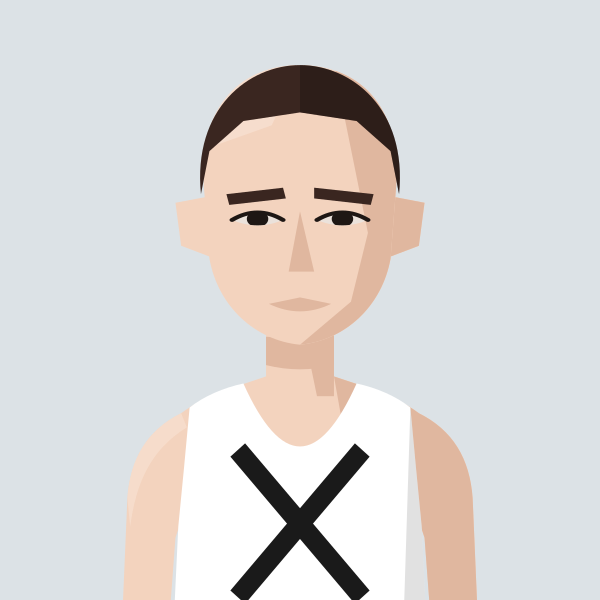
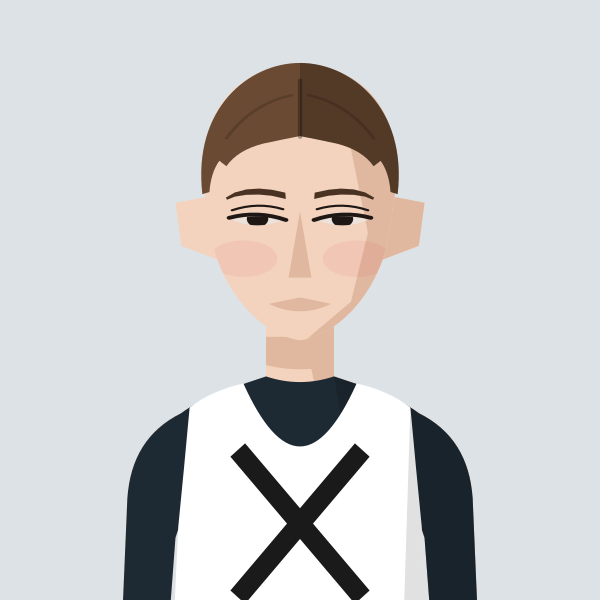
Redraw Indy Barnes: low centre-parted sweep, short forehead, young face, hooded eyes, soft brows, dark sleeves
Claude-Session: https://claude.ai/code/session_01MgmDWhFqnSSnP4iBLKXUZC

diff --git a/files/index.html b/files/index.html
@@ -876,7 +876,7 @@ const portraitFile=(name,club)=>{const k=normalizeNameForCompare(name||'').repla
 const portraitClubOf=(name,clubs)=>{for(const c of clubs||[]){if(c&&portraitFile(name,c))return c;}return null;}; /* first of these clubs we have a portrait for */
 // Athlete header figure: superstar portrait if we have one, else a grey runner in the club vest, else the plain vest icon
 // Changes whenever any portrait changes (set by tools/build_og.py), so browsers fetch fresh images instead of old cached ones
-const PORTRAIT_V='09515851';const PORTRAIT_WOMEN='abbey-brooke,abbie-bulbulian,adele-prince,aimee-hargreaves,aisling-ahern,alex-brown,alex-gandee,alex-marginean,alex-miller,alexa-parker,alexandra-barbour,alice-braham,alice-bridger-morales,alice-crane,alice-martin,alice-reed,alice-smith,alison-purnell,alison-thomson,amelia-pettitt,amy-clements,andrea-barber,anika-schwarze-chintapatla,anna-garnier,anna-garnier-hw,anna-sharp,annabel-hobday,annabelle-hadlow,anne-hegvold,annmarie-seymour,ava-mcandie,becky-briggs,bethan-goddard,bethanie-murray,bethany-brown,betsy-griffiths,billie-mcclosky,camilla-barden,caoimhe-nic-fhogartaigh,carolyne-baxter,catherine-bryson,catherine-eastham,catherine-kandie,cathy-ansell,charlotte-griffiths,chloe-beckett,chloe-tighe,chrissie-wellington,claire-grima,clara-pettit,clare-elms,clare-pauzers,dillan-quinn,dorchie-cockerell,eilidh-hide,elinor-skinner,eliza-grant,elizabeth-apsley,elizabeth-stavreski,ella-fennelly,ella-king-powrie,ella-may-hards,ella-newton,ellen-weir,ellie-brown,ellie-freeden,eloise-bull,emilie-arnoux,emily-barrett,emily-bradley,emily-lowery,emily-robbins,emma-gordon,emma-howsham,emma-lord,emma-rowland,estle-viljoen,evie-warren,felicity-cole,felicity-harrison,felicity-hayward,fi-maddocks,fiona-de-mauny,florence-wiggins,gabby-collison,gabriel-reynolds,gemma-newport,genevieve-blanch,georgia-curry,georgie-bruinvels,georgie-fenn,georgie-furze,georgie-grgec,gina-galbraith,grace-leyland,grace-richardson,hannah-edwards,hannah-english,heather-statham,heather-statham-cc,helena-corbin,helena-keenan,holly-nixon,holly-pan,imogen-mackie,imogen-wolsey,iona-cousland,isabel-bradley,isabel-brinsden,isabelle-pickett,isobel-hodder,jennifer-nandi,jennifer-smith,jess-reed,jess-saunders,jess-winfield,jessica-davies,jessica-lowe,jodie-favell,jon-hobbs,josephine-rhodes,julia-bleasdale,julia-wedmore,juliet-hodder,jurgita-levertaviciute,justine-lynch,karen-fenner,karen-xiang,karina-box,kate-axford,kate-williams,kathy-sharpe,katie-ellen-french,katie-good,katie-snowden,katy-hedgethorne,kitty-shepherd-cross,kristina-popadich,lara-bromilow,lara-mangan,laura-goodson,laura-miles,lauren-major,lea-adamson,lily-newton,lisa-bailey,lisa-thomas,lisa-thomas-hw,lizzie-goldie-scot,louise-cooper,lucy-jones,lucy-macalister,lucy-peters,lydia-blackmore,lydia-gallyer-barnett,maddie-mastrolonardo,maddy-whitman,maeve-kenny,margaret-coogan,martina-conner,mary-james,mary-setyabule,matilde-lomba,megan-gildea,mel-wilkins,mhairi-hall,mimi-corden-lloyd,molly-oconnor,molly-smith,monika-gajek,naomi-lenane,natalie-beadle,natalie-seymour,natasha-lodge,niamh-thompson,nicky-hayes,nicola-cartlidge,nicola-douglas,nikki-sturzaker,olivia-papaioannou,olivia-stillman,orna-mcginley,pamela-mchutchon,patricia-walker,patrizia-gnoato,penny-oliver,rachel-brown,rebecca-barrow,rebekah-edgar,ruby-carter,ruby-whyte-wilding,ruby-woolfe,sally-urquhart,sam-whiting,samantha-munday,sarah-astin,sarah-dewhirst,sarah-grover,sarah-hanley,sarah-holt,sarah-murphy,sarah-palmer,sarah-palmer-ran,sarah-riceman,sarah-young,saron-haileselase,serena-carter,sophie-cowper,sophie-harris,sophie-hicks,sophie-tooley,stacey-ward,steph-hewitt,steph-mccall,steph-mccall-cc,steph-mccall-slh,steph-mitchell,suzanne-swaine,suze-spalding,suzie-harvey,suzy-whatmough,teresa-murphy,tilly-heaton,tilly-heaton-bel,tish-jones,vic-cartwright,vicky-clarke,victoria-barthelmess,victoria-buck,vikki-filsell,zoe-doyle,zoe-macdonald,zuzana-nemeckova';const PORTRAIT_MEN='aaron-wilson,abdulla-elsadig,adam-leane,adrian-major,adrien-royer,alan-black,alan-mead,alex-brecker,alex-bruce-littlewood,alex-gutteridge,alex-harris,alex-howard,alex-janiaud,alex-lee,alex-lennon,alex-mills,alex-milne,alex-morales,alex-robinson,alex-yee,alexander-marks,amittai-ben-israel,andrew-cumine,andrew-green,andrew-penney,andrew-perfect,andrew-simms,andrew-warburton,andrius-jaksevicius,andy-coley-maud,andy-coley-maud-cc,andy-fyfe,andy-north,andy-paton,andy-weir,angus-butler,angus-lamb,anisse-ismaili,arlo-ludewick,arne-dumez,arthur-peel,ashley-goncalves,barnaby-day,barry-collins,barry-sawyer,ben-clarke,ben-coughlan,ben-harding,ben-hurley,ben-ireland,ben-millar,ben-paviour,ben-pearce,ben-racle,ben-revill,ben-reynolds,ben-scott,ben-toomer,benedict-whitby,benjamin-hilson,bernie-ford,bill-kerr,bill-weller,bill-weller-wal,bob-harrison,bob-holt,bob-lunnon,bob-rayman,bob-smith,bradley-courtney-pinn,brandon-dewar,brian-gorman,brian-wilder,caleb-hathaway,callum-stewart,cameron-dockerill,cameron-reilly,carl-delaney,charles-herrington,charlie-dabbs,charlie-dickinson,charlie-eastaugh,charlie-manning,charlie-pickett,charlie-rogers,charlie-sandison,charlie-walker,charlie-wyllie,che-compton,chris-busaileh,chris-busaileh-hhh,chris-greenwood,chris-keavey,chris-moss,chris-steer,chris-threadgold,chris-warren,christian-lee,christopher-parker,clive-gilby,clive-shippen,colin-high,colin-pearson,conall-mcnally,conall-whelan,craig-ruddy,dame-dibaba,dan-cliffe,dan-pettitt,daniel-shaw,daniel-wolff,darren-mead,dave-beard,dave-beaver,dave-glassborow,dave-holt,dave-taylor,david-anderson,david-bowers,david-grima,david-north,david-ogden,david-symons,david-walsh,david-williams,deron-fagan,dick-piotrowski,dimos-evangelidis,dom-nolan,dominic-kiralyfi,don-anderson,don-faircloth,don-maclean,doug-maughan,duncan-rimmer,dylan-evans,dylan-mitchard,ed-brewer,ed-catmur,ed-gibson,ed-mallett,eddie-herridge,eddie-jodrell,eddie-rolls,edward-chuck,eoin-brady,eoin-molloy,ethan-mccolgan,falilou-kebe,findlay-dyer,finn-johnson,fintan-pearce,frank-tickner,frank-ward,fred-paget,fred-slemeck,freddie-hessian,garret-lee,gary-ribbons,gary-ribbons-ee,gary-staines,gary-staines-bel,gavin-eccles,geoff-biscoe,geoff-jerwood,geoff-north,george-cotton,george-gathercole,george-jackson,george-loxton,george-mallett,george-ogden,gerry-adams,gerry-north,glen-keegan,gordon-pearce,graham-macky,grenville-tuck,harrison-hayman,harry-guttridge,hector-revill,henry-hart,henry-silverstein,hugo-hewitt,huw-lobb,ian-acreman,ian-crowe-wright,ian-ellwood,ian-harkness,indy-barnes,isaac-lutaya,isaac-parker,jack-brotchie,jack-dickson,jack-dormer,jack-hampshire,jack-harrison,jack-hobden,jack-kavanagh,jack-millar,jack-ramm,jack-woods,jacob-brockmann,jake-simmonds,james-bartram,james-blackwood,james-bowler,james-estall,james-ewing,james-fox,james-hancock,james-harvey,james-hoad,james-kelly,james-mcmullan,james-murray,james-nutt,james-preston,james-roberts,james-stockings,james-ward,james-wootton,jamie-crowe,jamie-parkinson,jared-martin,jean-paul-wright,jeff-cunningham,jeremy-dempsey,jermaine-mays,jerry-watson,jim-allchin,jim-rimmer,joe-english,joe-hartley,john-baker,john-bicourt,john-bromley,john-davies,john-dear,john-foss,john-foxall,john-gilbert,john-gladwin,john-hutchins,john-kendall,john-kimaiyo,john-lee,john-lethbridge,john-mather,john-moore,john-roberts,john-sanderson,john-stow,john-sullivan,john-thresher,jon-pepper,jon-pepper-slh,jon-phillips,jon-solly,jonathan-cocker,jonathan-collier,jonathan-cornish,jonathan-ratcliffe,jonathan-tipper,jonny-neville,jonny-scott,jordan-weaver,josh-mitchell,josh-snow,josh-trigwell,jules-gevers,junior-galley,justin-chaston,justin-reid,kassa-tadesse,keith-newton,kevin-nash,kevin-quinn,kevin-sturman,kieran-barnes,kieran-white,knut-hegvold,knut-hegvold-bel,larry-ryan,lawrence-avery,lee-lintern,lewis-lloyd,liam-burthem,lionel-mann,lloyd-kempson,luke-caldwell,mack-downie,malachi-byansi,marcello-bizio,marcelo-fortes,marco-mazzotta,mark-anderson,mark-miles,mark-sinclair,mark-tennyson,mark-waller,martin-dent,martin-duff,martin-lake,martin-lewington,martin-shore,mathew-speed,matt-chaston,matt-jones,matt-wood,matthew-edgar,matthew-houchell,matthew-thomas,matthew-varley,max-bloor,max-heyden,max-milarvie,max-nicholls,michael-baker,michael-mccarthy,mick-woods,mike-beevor,mike-boyle,mike-cummings,mike-farmery,mike-fuller,mike-hayes,mike-kortenray,mike-nouch,mohammed-ismail,monty-hudson,morgan-roberts,nathan-visick,neil-chisholm,neil-phillips,neil-speaight,neil-wilson,nic-lukies,nick-acfield,nick-altmann,nick-bester,nick-bester-hhh,nick-buckle,nick-bundle,nick-goolab,nick-lightfoot,nick-morris,nick-torry,noah-fernandez,norman-stairs,oli-carrington,oliver-carrington,oliver-fox,oliver-reynolds,oliver-young,ollie-foote,ollie-garrod,olly-buck,owen-hind,paddy-roddy,pancho-panchev,paskar-owor,pat-newell,patrick-mcdougall,paul-calver,paul-cheetham,paul-freary,paul-magner,paul-pollock,paul-sanderson,paul-sanderson-wok,pete-carton,pete-gardner,peter-clarke,peter-giles,peter-giles-thh,peter-lighting,phil-carstairs,phil-sanders,phil-sesemann,phil-swinburn,phil-wicks,phil-woodford-smith,raj-paranandi,ralph-street,ranjit-bhatia,ray-foley,reece-edwards,rhys-boorman,rian-mccawley,richard-ashe,richard-giles,richard-henderson,richard-langley,richard-mcdowell,richard-ollington,richard-partridge,richard-sun,richard-ward,rob-armstrong,rob-kelly,rob-tuer,robert-elphick,robert-laing,robert-norville,robert-peacock,robert-sesemann,robin-boon,robin-hudson,roger-alsop,roger-alsop-bel,roger-hackney,ron-clark,ron-linstead,ronan-tanguy,rory-mcmahon,rory-orsborn,ross-braden,ross-christie,rowan-board,rowan-crichton,russell-dessaix-chin,ryan-hickey,ryan-mccallister,sam-bramwell,sam-charlton,sam-gebreselassie,sam-haughian,sam-peters,sam-sommerville,sam-tyas,samuel-dames,samuel-wilcock,sean-cordon,sebastian-anthony,simon-baines,simon-coombes,simon-coppard,simon-fairbrother,simon-holmes,simon-rayner,simon-rayner-hw,simon-wade,simon-wade-hhh,simon-waterhouse,simon-williams,simon-wurr,sonny-nicoll,spencer-barden,stephen-mcleod,stephen-sharp,steve-gardner,steve-jones,steve-smythe,steve-smythe-hhh,stuart-beaney,stuart-major,stuart-major-thh,stuart-mccallum,stuart-paton,terry-booth,thomas-dugre,thomas-gandee,thomas-gardner,thomas-renshaw,tim-alexander,tim-eglen,tim-lawrence,tim-watson,toby-cooke,toby-fletcher,tom-austin,tom-cheetham,tom-conlon,tom-davies,tom-gifford,tom-higgs,tom-jervis,tom-lole,tom-south,tom-thornley,tommy-taylor,tony-binda,tony-fairclough,tony-harran,trevor-hart,valdis-pauzers,valentin-rigori,vic-maughan,wayne-oxborough,will-cockerell,will-lewis,will-marshall,will-scott,will-stockley,william-gardner,yacin-yusuf,zach-nolan';
+const PORTRAIT_V='463f9601';const PORTRAIT_WOMEN='abbey-brooke,abbie-bulbulian,adele-prince,aimee-hargreaves,aisling-ahern,alex-brown,alex-gandee,alex-marginean,alex-miller,alexa-parker,alexandra-barbour,alice-braham,alice-bridger-morales,alice-crane,alice-martin,alice-reed,alice-smith,alison-purnell,alison-thomson,amelia-pettitt,amy-clements,andrea-barber,anika-schwarze-chintapatla,anna-garnier,anna-garnier-hw,anna-sharp,annabel-hobday,annabelle-hadlow,anne-hegvold,annmarie-seymour,ava-mcandie,becky-briggs,bethan-goddard,bethanie-murray,bethany-brown,betsy-griffiths,billie-mcclosky,camilla-barden,caoimhe-nic-fhogartaigh,carolyne-baxter,catherine-bryson,catherine-eastham,catherine-kandie,cathy-ansell,charlotte-griffiths,chloe-beckett,chloe-tighe,chrissie-wellington,claire-grima,clara-pettit,clare-elms,clare-pauzers,dillan-quinn,dorchie-cockerell,eilidh-hide,elinor-skinner,eliza-grant,elizabeth-apsley,elizabeth-stavreski,ella-fennelly,ella-king-powrie,ella-may-hards,ella-newton,ellen-weir,ellie-brown,ellie-freeden,eloise-bull,emilie-arnoux,emily-barrett,emily-bradley,emily-lowery,emily-robbins,emma-gordon,emma-howsham,emma-lord,emma-rowland,estle-viljoen,evie-warren,felicity-cole,felicity-harrison,felicity-hayward,fi-maddocks,fiona-de-mauny,florence-wiggins,gabby-collison,gabriel-reynolds,gemma-newport,genevieve-blanch,georgia-curry,georgie-bruinvels,georgie-fenn,georgie-furze,georgie-grgec,gina-galbraith,grace-leyland,grace-richardson,hannah-edwards,hannah-english,heather-statham,heather-statham-cc,helena-corbin,helena-keenan,holly-nixon,holly-pan,imogen-mackie,imogen-wolsey,iona-cousland,isabel-bradley,isabel-brinsden,isabelle-pickett,isobel-hodder,jennifer-nandi,jennifer-smith,jess-reed,jess-saunders,jess-winfield,jessica-davies,jessica-lowe,jodie-favell,jon-hobbs,josephine-rhodes,julia-bleasdale,julia-wedmore,juliet-hodder,jurgita-levertaviciute,justine-lynch,karen-fenner,karen-xiang,karina-box,kate-axford,kate-williams,kathy-sharpe,katie-ellen-french,katie-good,katie-snowden,katy-hedgethorne,kitty-shepherd-cross,kristina-popadich,lara-bromilow,lara-mangan,laura-goodson,laura-miles,lauren-major,lea-adamson,lily-newton,lisa-bailey,lisa-thomas,lisa-thomas-hw,lizzie-goldie-scot,louise-cooper,lucy-jones,lucy-macalister,lucy-peters,lydia-blackmore,lydia-gallyer-barnett,maddie-mastrolonardo,maddy-whitman,maeve-kenny,margaret-coogan,martina-conner,mary-james,mary-setyabule,matilde-lomba,megan-gildea,mel-wilkins,mhairi-hall,mimi-corden-lloyd,molly-oconnor,molly-smith,monika-gajek,naomi-lenane,natalie-beadle,natalie-seymour,natasha-lodge,niamh-thompson,nicky-hayes,nicola-cartlidge,nicola-douglas,nikki-sturzaker,olivia-papaioannou,olivia-stillman,orna-mcginley,pamela-mchutchon,patricia-walker,patrizia-gnoato,penny-oliver,rachel-brown,rebecca-barrow,rebekah-edgar,ruby-carter,ruby-whyte-wilding,ruby-woolfe,sally-urquhart,sam-whiting,samantha-munday,sarah-astin,sarah-dewhirst,sarah-grover,sarah-hanley,sarah-holt,sarah-murphy,sarah-palmer,sarah-palmer-ran,sarah-riceman,sarah-young,saron-haileselase,serena-carter,sophie-cowper,sophie-harris,sophie-hicks,sophie-tooley,stacey-ward,steph-hewitt,steph-mccall,steph-mccall-cc,steph-mccall-slh,steph-mitchell,suzanne-swaine,suze-spalding,suzie-harvey,suzy-whatmough,teresa-murphy,tilly-heaton,tilly-heaton-bel,tish-jones,vic-cartwright,vicky-clarke,victoria-barthelmess,victoria-buck,vikki-filsell,zoe-doyle,zoe-macdonald,zuzana-nemeckova';const PORTRAIT_MEN='aaron-wilson,abdulla-elsadig,adam-leane,adrian-major,adrien-royer,alan-black,alan-mead,alex-brecker,alex-bruce-littlewood,alex-gutteridge,alex-harris,alex-howard,alex-janiaud,alex-lee,alex-lennon,alex-mills,alex-milne,alex-morales,alex-robinson,alex-yee,alexander-marks,amittai-ben-israel,andrew-cumine,andrew-green,andrew-penney,andrew-perfect,andrew-simms,andrew-warburton,andrius-jaksevicius,andy-coley-maud,andy-coley-maud-cc,andy-fyfe,andy-north,andy-paton,andy-weir,angus-butler,angus-lamb,anisse-ismaili,arlo-ludewick,arne-dumez,arthur-peel,ashley-goncalves,barnaby-day,barry-collins,barry-sawyer,ben-clarke,ben-coughlan,ben-harding,ben-hurley,ben-ireland,ben-millar,ben-paviour,ben-pearce,ben-racle,ben-revill,ben-reynolds,ben-scott,ben-toomer,benedict-whitby,benjamin-hilson,bernie-ford,bill-kerr,bill-weller,bill-weller-wal,bob-harrison,bob-holt,bob-lunnon,bob-rayman,bob-smith,bradley-courtney-pinn,brandon-dewar,brian-gorman,brian-wilder,caleb-hathaway,callum-stewart,cameron-dockerill,cameron-reilly,carl-delaney,charles-herrington,charlie-dabbs,charlie-dickinson,charlie-eastaugh,charlie-manning,charlie-pickett,charlie-rogers,charlie-sandison,charlie-walker,charlie-wyllie,che-compton,chris-busaileh,chris-busaileh-hhh,chris-greenwood,chris-keavey,chris-moss,chris-steer,chris-threadgold,chris-warren,christian-lee,christopher-parker,clive-gilby,clive-shippen,colin-high,colin-pearson,conall-mcnally,conall-whelan,craig-ruddy,dame-dibaba,dan-cliffe,dan-pettitt,daniel-shaw,daniel-wolff,darren-mead,dave-beard,dave-beaver,dave-glassborow,dave-holt,dave-taylor,david-anderson,david-bowers,david-grima,david-north,david-ogden,david-symons,david-walsh,david-williams,deron-fagan,dick-piotrowski,dimos-evangelidis,dom-nolan,dominic-kiralyfi,don-anderson,don-faircloth,don-maclean,doug-maughan,duncan-rimmer,dylan-evans,dylan-mitchard,ed-brewer,ed-catmur,ed-gibson,ed-mallett,eddie-herridge,eddie-jodrell,eddie-rolls,edward-chuck,eoin-brady,eoin-molloy,ethan-mccolgan,falilou-kebe,findlay-dyer,finn-johnson,fintan-pearce,frank-tickner,frank-ward,fred-paget,fred-slemeck,freddie-hessian,garret-lee,gary-ribbons,gary-ribbons-ee,gary-staines,gary-staines-bel,gavin-eccles,geoff-biscoe,geoff-jerwood,geoff-north,george-cotton,george-gathercole,george-jackson,george-loxton,george-mallett,george-ogden,gerry-adams,gerry-north,glen-keegan,gordon-pearce,graham-macky,grenville-tuck,harrison-hayman,harry-guttridge,hector-revill,henry-hart,henry-silverstein,hugo-hewitt,huw-lobb,ian-acreman,ian-crowe-wright,ian-ellwood,ian-harkness,indy-barnes,isaac-lutaya,isaac-parker,jack-brotchie,jack-dickson,jack-dormer,jack-hampshire,jack-harrison,jack-hobden,jack-kavanagh,jack-millar,jack-ramm,jack-woods,jacob-brockmann,jake-simmonds,james-bartram,james-blackwood,james-bowler,james-estall,james-ewing,james-fox,james-hancock,james-harvey,james-hoad,james-kelly,james-mcmullan,james-murray,james-nutt,james-preston,james-roberts,james-stockings,james-ward,james-wootton,jamie-crowe,jamie-parkinson,jared-martin,jean-paul-wright,jeff-cunningham,jeremy-dempsey,jermaine-mays,jerry-watson,jim-allchin,jim-rimmer,joe-english,joe-hartley,john-baker,john-bicourt,john-bromley,john-davies,john-dear,john-foss,john-foxall,john-gilbert,john-gladwin,john-hutchins,john-kendall,john-kimaiyo,john-lee,john-lethbridge,john-mather,john-moore,john-roberts,john-sanderson,john-stow,john-sullivan,john-thresher,jon-pepper,jon-pepper-slh,jon-phillips,jon-solly,jonathan-cocker,jonathan-collier,jonathan-cornish,jonathan-ratcliffe,jonathan-tipper,jonny-neville,jonny-scott,jordan-weaver,josh-mitchell,josh-snow,josh-trigwell,jules-gevers,junior-galley,justin-chaston,justin-reid,kassa-tadesse,keith-newton,kevin-nash,kevin-quinn,kevin-sturman,kieran-barnes,kieran-white,knut-hegvold,knut-hegvold-bel,larry-ryan,lawrence-avery,lee-lintern,lewis-lloyd,liam-burthem,lionel-mann,lloyd-kempson,luke-caldwell,mack-downie,malachi-byansi,marcello-bizio,marcelo-fortes,marco-mazzotta,mark-anderson,mark-miles,mark-sinclair,mark-tennyson,mark-waller,martin-dent,martin-duff,martin-lake,martin-lewington,martin-shore,mathew-speed,matt-chaston,matt-jones,matt-wood,matthew-edgar,matthew-houchell,matthew-thomas,matthew-varley,max-bloor,max-heyden,max-milarvie,max-nicholls,michael-baker,michael-mccarthy,mick-woods,mike-beevor,mike-boyle,mike-cummings,mike-farmery,mike-fuller,mike-hayes,mike-kortenray,mike-nouch,mohammed-ismail,monty-hudson,morgan-roberts,nathan-visick,neil-chisholm,neil-phillips,neil-speaight,neil-wilson,nic-lukies,nick-acfield,nick-altmann,nick-bester,nick-bester-hhh,nick-buckle,nick-bundle,nick-goolab,nick-lightfoot,nick-morris,nick-torry,noah-fernandez,norman-stairs,oli-carrington,oliver-carrington,oliver-fox,oliver-reynolds,oliver-young,ollie-foote,ollie-garrod,olly-buck,owen-hind,paddy-roddy,pancho-panchev,paskar-owor,pat-newell,patrick-mcdougall,paul-calver,paul-cheetham,paul-freary,paul-magner,paul-pollock,paul-sanderson,paul-sanderson-wok,pete-carton,pete-gardner,peter-clarke,peter-giles,peter-giles-thh,peter-lighting,phil-carstairs,phil-sanders,phil-sesemann,phil-swinburn,phil-wicks,phil-woodford-smith,raj-paranandi,ralph-street,ranjit-bhatia,ray-foley,reece-edwards,rhys-boorman,rian-mccawley,richard-ashe,richard-giles,richard-henderson,richard-langley,richard-mcdowell,richard-ollington,richard-partridge,richard-sun,richard-ward,rob-armstrong,rob-kelly,rob-tuer,robert-elphick,robert-laing,robert-norville,robert-peacock,robert-sesemann,robin-boon,robin-hudson,roger-alsop,roger-alsop-bel,roger-hackney,ron-clark,ron-linstead,ronan-tanguy,rory-mcmahon,rory-orsborn,ross-braden,ross-christie,rowan-board,rowan-crichton,russell-dessaix-chin,ryan-hickey,ryan-mccallister,sam-bramwell,sam-charlton,sam-gebreselassie,sam-haughian,sam-peters,sam-sommerville,sam-tyas,samuel-dames,samuel-wilcock,sean-cordon,sebastian-anthony,simon-baines,simon-coombes,simon-coppard,simon-fairbrother,simon-holmes,simon-rayner,simon-rayner-hw,simon-wade,simon-wade-hhh,simon-waterhouse,simon-williams,simon-wurr,sonny-nicoll,spencer-barden,stephen-mcleod,stephen-sharp,steve-gardner,steve-jones,steve-smythe,steve-smythe-hhh,stuart-beaney,stuart-major,stuart-major-thh,stuart-mccallum,stuart-paton,terry-booth,thomas-dugre,thomas-gandee,thomas-gardner,thomas-renshaw,tim-alexander,tim-eglen,tim-lawrence,tim-watson,toby-cooke,toby-fletcher,tom-austin,tom-cheetham,tom-conlon,tom-davies,tom-gifford,tom-higgs,tom-jervis,tom-lole,tom-south,tom-thornley,tommy-taylor,tony-binda,tony-fairclough,tony-harran,trevor-hart,valdis-pauzers,valentin-rigori,vic-maughan,wayne-oxborough,will-cockerell,will-lewis,will-marshall,will-scott,will-stockley,william-gardner,yacin-yusuf,zach-nolan';
 // Runners whose dog pops up on their own profile page (a -dog.svg version of their portrait)
 const PROFILE_DOGS=new Set(['john-sanderson','penny-oliver','james-hancock','angus-butler']);
 const AthletePortrait=({name,club,w,fill,onClick,blink})=>{const[failed,setFailed]=useState(false);const file=portraitFile(name,club);const src0=file?`/portraits/athletes/${file}.svg?v=${PORTRAIT_V}`:PORTRAIT_CLUBS.has(club)?`/portraits/clubs/${club.replace(/\//g,'').replace(/&/g,'and')}.svg?v=${PORTRAIT_V}`:null;const blinkSrc=useBlinkSrc(file?(PROFILE_DOGS.has(file)?`/portraits/athletes/${file}-dog.svg?v=${PORTRAIT_V}`:src0):null,!!blink);const src=blinkSrc||src0;if(!src||failed)return<div onClick={onClick} className={onClick?'cursor-pointer':''}><ClubShield club={club} size={w}/></div>;const h=Math.round(w*148/126),ih=Math.round(w*1.4);if(fill)return<div onClick={onClick} className="cursor-pointer" style={{alignSelf:'stretch',minHeight:h,aspectRatio:'126 / 148',flexShrink:0,position:'relative',borderRadius:4,overflow:'hidden'}}><img src={src} alt={file?`Portrait of ${name.replace(/\s*\([^)]*\)$/,'')}`:`Runner in ${CLUBS[club]?.name||club} vest`} style={{position:'absolute',top:0,left:0,display:'block',width:'100%',height:'auto'}} onError={()=>setFailed(true)}/></div>;return<div style={{width:w,height:h,borderRadius:4,overflow:'hidden',flexShrink:0}}><img src={src} alt={file?`Portrait of ${name.replace(/\s*\([^)]*\)$/,'')}`:`Runner in ${CLUBS[club]?.name||club} vest`} width={w} height={ih} style={{display:'block',width:w,height:ih}} onError={()=>setFailed(true)}/></div>;};

diff --git a/tools/gen_portraits.py b/tools/gen_portraits.py
@@ -1944,4 +1944,11 @@ def softbrows(svg, thick=3.4, rise=0.0):
 # Jared Martin (THH), redrawn Oct 2026: short dark brown crop, triangular head with broad temples and a long flat chin,
 # small hooded eyes under soft curved medium brows, long nose, clean cheeks
 save("jared-martin", trihead(nose(softbrows(brows(eyes(figure("THH", skin=1, hair="crop", hair_colour="#3A2820", brow_colour="#2E211A"), "smallhooded", 0), 0, 0, 3), 3.4, 0), 0.95, 1.15)))
+# ---- Low centre-parted sweep (Oct 2026, first used for Indy Barnes) ----
+HAIR["lowpart"] = ('<path d="M65.5,100 C62,60 82,39 100,39 C118,39 138,60 134.5,100 L132,99 Q131.5,90 128.5,84.5 L126,87 Q122,79.5 113,76.5 Q106,74.5 100,73 Q94,74.5 87,76.5 Q78,79.5 74,87 L71.5,84.5 Q68.5,90 68,99 Z"/>'
+    '<path d="M100,73.5 L100,47" fill="none" stroke="#000" stroke-opacity=".3" stroke-width="1.5" stroke-linecap="round"/>'
+    '<g fill="none" stroke="#000" stroke-opacity=".16" stroke-width="1.2" stroke-linecap="round"><path d="M97,54 Q83,58 74,74"/><path d="M103,54 Q117,58 126,74"/></g>')  # medium top parted in the middle and swept out and down to the temples: low hairline, short forehead
+# Indy Barnes (THH), redrawn Oct 2026: mid-brown hair parted in the middle and swept out and down to the temples (low hairline,
+# short forehead), short sides, young smooth face with a slightly narrow chin, light flush, hooded eyes, medium-thin soft brows, dark long sleeves
+save("barnes", nose(softbrows(brows(eyes(figure("THH", hair="lowpart", jaw="narrow", skin=1, hair_colour="#6A4A32", brow_colour="#4A3222", sleeves="#1E2A33", rosy=True), "hooded", 0), 0, 0, 1), 2.8, 0.3), 0.9, 1.1))
 export_site()
